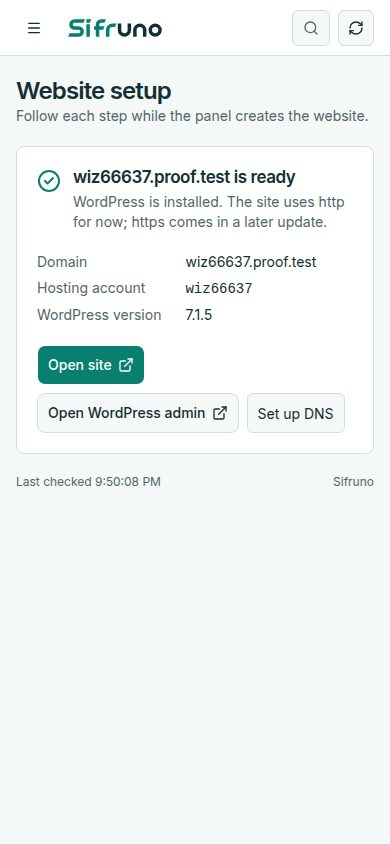
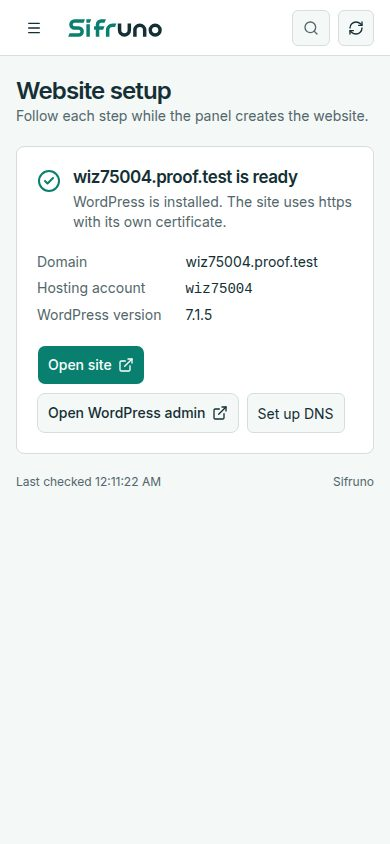
Prove the wizard with SSL on the dev VM
proof.sh wordpress-wizard with Pebble: 43 checks passed, 0 failed, built
from feada5f. The site is served over https with a certificate the panel
got with lego and the broker installed, and WordPress uses https. The
proof's own output no longer leaves trailing spaces.

Claude-Session: https://claude.ai/code/session_01DaXeqos6nuBeaCXyMJPYBu

Changed region(s): [[0.1846, 0.1848, 0.8308, 0.3697], [0.2462, 0.5545, 0.4, 0.5853]]

diff --git a/docs/proofs/README.md b/docs/proofs/README.md
@@ -79,21 +79,21 @@ Run on 2026-11-23 with `scripts/devvm/proof.sh broker-wordpress` on the dev VM, 
 
 The install took 230 s under software emulation, past the broker's 45 s request limit, so this run also shows that the long-running response arrives. Later commits refused a suspend or web change during an install, refused passwords with an edge space (WP-CLI's prompt trims them), and gave OpenLiteSpeed's test and restart their own time limits; those are covered by unit tests and by the wizard proof below, which ran the same install through the panel. A re-run on `d99cdd0` failed at its first step because the proof's own driver stopped waiting for the web change after 60 s while the broker finished it; the driver now waits six minutes (`0b9bd2c`).
 
-## Phase 1: the New website wizard
+## Phase 1: the New website wizard, with SSL
 
-Run on 2026-11-23 with `scripts/devvm/proof.sh wordpress-wizard` on the dev VM (AlmaLinux 9.9, SELinux enforcing, OpenLiteSpeed 1.9.4, LSPHP 8.3, MariaDB 10.11, QEMU software emulation), built from `f3affc7`. The panel ran in the VM as `sifpanel` with the real broker (`--web-user`) and the MariaDB admin option file that provisioning makes; headless Chrome on the host reached it through `vm.sh forward` and drove the wizard as an admin would.
+Run on 2026-11-24 with `scripts/devvm/proof.sh wordpress-wizard` on the dev VM (AlmaLinux 9.9, SELinux enforcing, OpenLiteSpeed 1.9.4, LSPHP 8.3, MariaDB 10.11, QEMU software emulation), built from `70efa12`. The panel ran in the VM as `sifpanel` with the real broker (`--web-user`), the MariaDB admin option file, and ACME pointed at Pebble 2.10.1, Let's Encrypt's test CA, installed by provisioning (its DNS answers 127.0.0.1 for every name, so it validates HTTP-01 against this VM's OpenLiteSpeed). Headless Chrome on the host reached the panel through `vm.sh forward` and drove the wizard as an admin would.
 
 | Slice | Transcript | Result |
 | --- | --- | --- |
-| New website: first-run admin sign-in, the wizard form (autocomplete, feedback only after leaving a field), Create starts a panel job that creates the account, puts the site live, creates the database and installs WordPress, the job page to the last screen (Open site, Open WordPress admin, Set up DNS; after a reload; at phone width), the same domain refused, the WordPress admin password in neither the jobs API, the browser's storage nor the job file; on the VM the job file is private, the files and `wp-config.php` (0600) are the site user's, the site serves the title typed in the wizard and `wp-admin` redirects to the login | [phase1-wordpress-wizard.txt](phase1-wordpress-wizard.txt) | 30 passed, 0 failed |
+| New website: first-run admin sign-in, the wizard form (autocomplete, feedback only after leaving a field), a panel job that creates the account, puts the site live, gets a certificate (lego in the panel, HTTP-01 through the broker's challenge path, installed by the broker's `SetCertificate`), creates the database and installs WordPress with https; the job page and the last screen (https links, DNS help, reload, phone width), the same domain refused, the WordPress admin password in neither the jobs API, the browser's storage nor the job file; on the VM the site serves over https with a certificate chained to Pebble's root that names exactly the domain and is the broker's `cert.pem` (root 0600), and WordPress's home and siteurl are https | [phase1-wordpress-wizard.txt](phase1-wordpress-wizard.txt) | 43 passed, 0 failed |
 
-Screenshots are in [phase1-wordpress-wizard/](phase1-wordpress-wizard/): the form (the password masked), the job while it runs, and the last screen at desktop and phone width. The job took 318 s under software emulation.
+Screenshots are in [phase1-wordpress-wizard/](phase1-wordpress-wizard/): the form (the password masked), the job while it runs, and the last screen at desktop and phone width.
 
-The first run of this proof found a broker bug: `systemctl reload lsws` took 18 s on the busy VM, past the broker's 15 s command limit, so the web step was left pending and the wizard could not undo the account it had made. OpenLiteSpeed's config test and restart now have their own limits (`b8d3b97`), and delete removes the user on the operation's own limit (`f3affc7`).
+Earlier runs found and fixed: a broker command limit too short for OpenLiteSpeed's restart on a busy VM (`b8d3b97`), a delete cut off by the request's own limit (`f3affc7`), and proof checks that looked for the step list on the last screen (`caf5b99`). One run on `caf5b99` passed every https check but its first plain-http request found no page within ten minutes, while the same page served at once later in the run and in the next run; the cause is not known.
 
 What this run does not show:
 
-- **SSL.** The site is http; certificates with lego are the next slice.
-- **Real DNS.** The proof domain resolves nowhere; the site was reached with a Host header.
-- **The failure paths on the VM.** Undo after a failed step, a pre-existing database name, a slow step and a panel restart during a job are covered by unit tests (`internal/wizard`), not by this run.
+- **Real DNS and a public CA.** Pebble stands in for Let's Encrypt and its DNS points every name at the VM.
+- **Renewal.** The renewal loop and its one-week wait after a refused install are unit tests (`internal/acme`); no certificate came near expiry here.
+- **The failure paths on the VM.** Undo after a failed step, a pre-existing database name, a slow step, a panel restart during a job and a skipped SSL step are unit tests (`internal/wizard`).
 - **More than one job.** Jobs run one at a time; the refusal of a second is a unit test.
